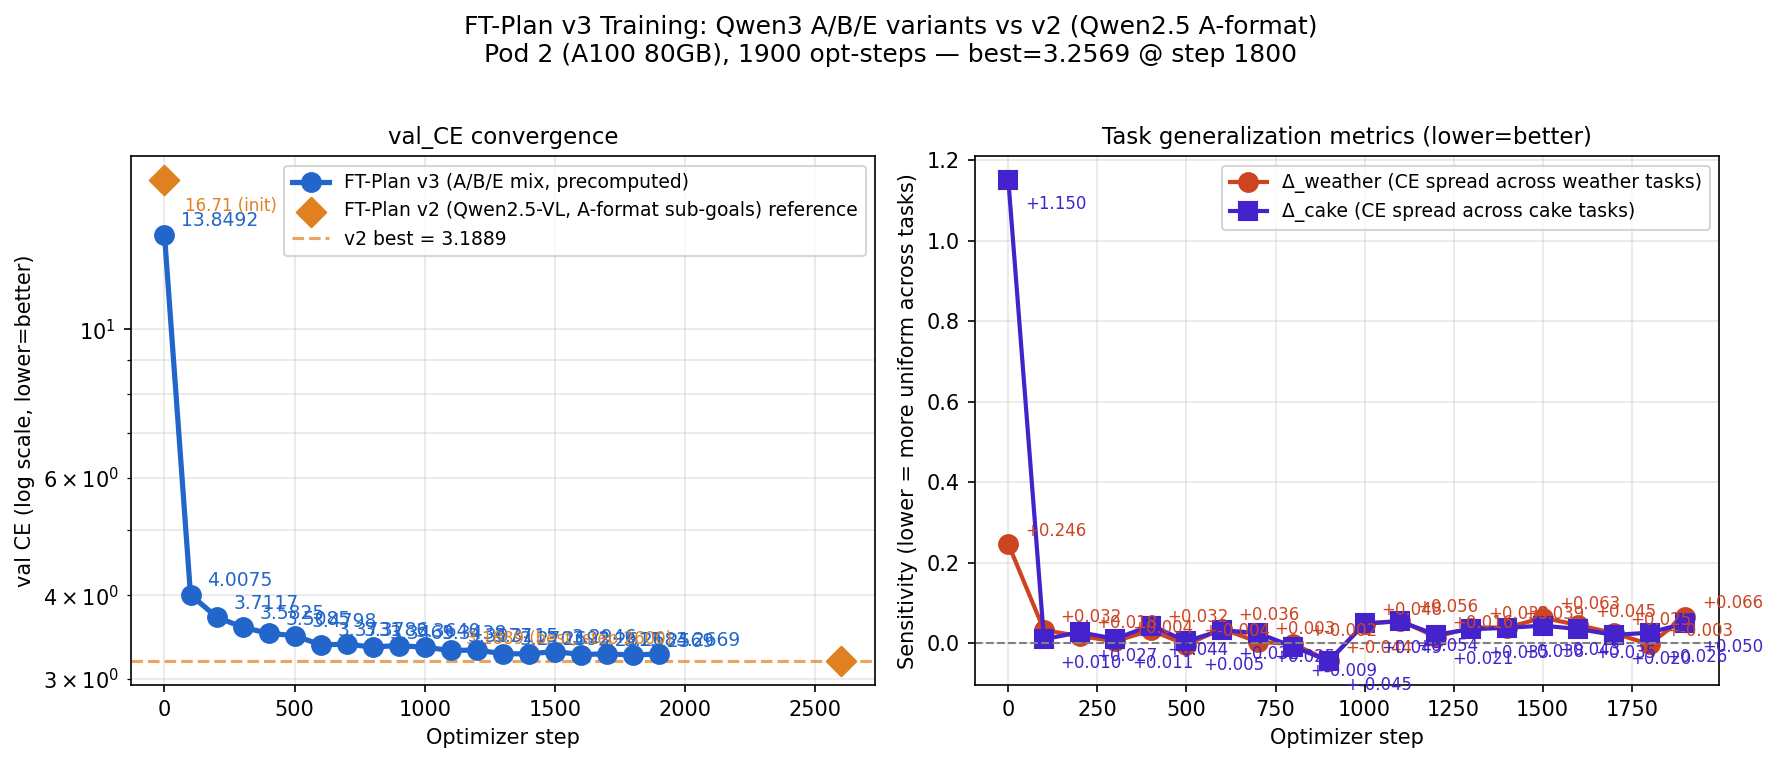
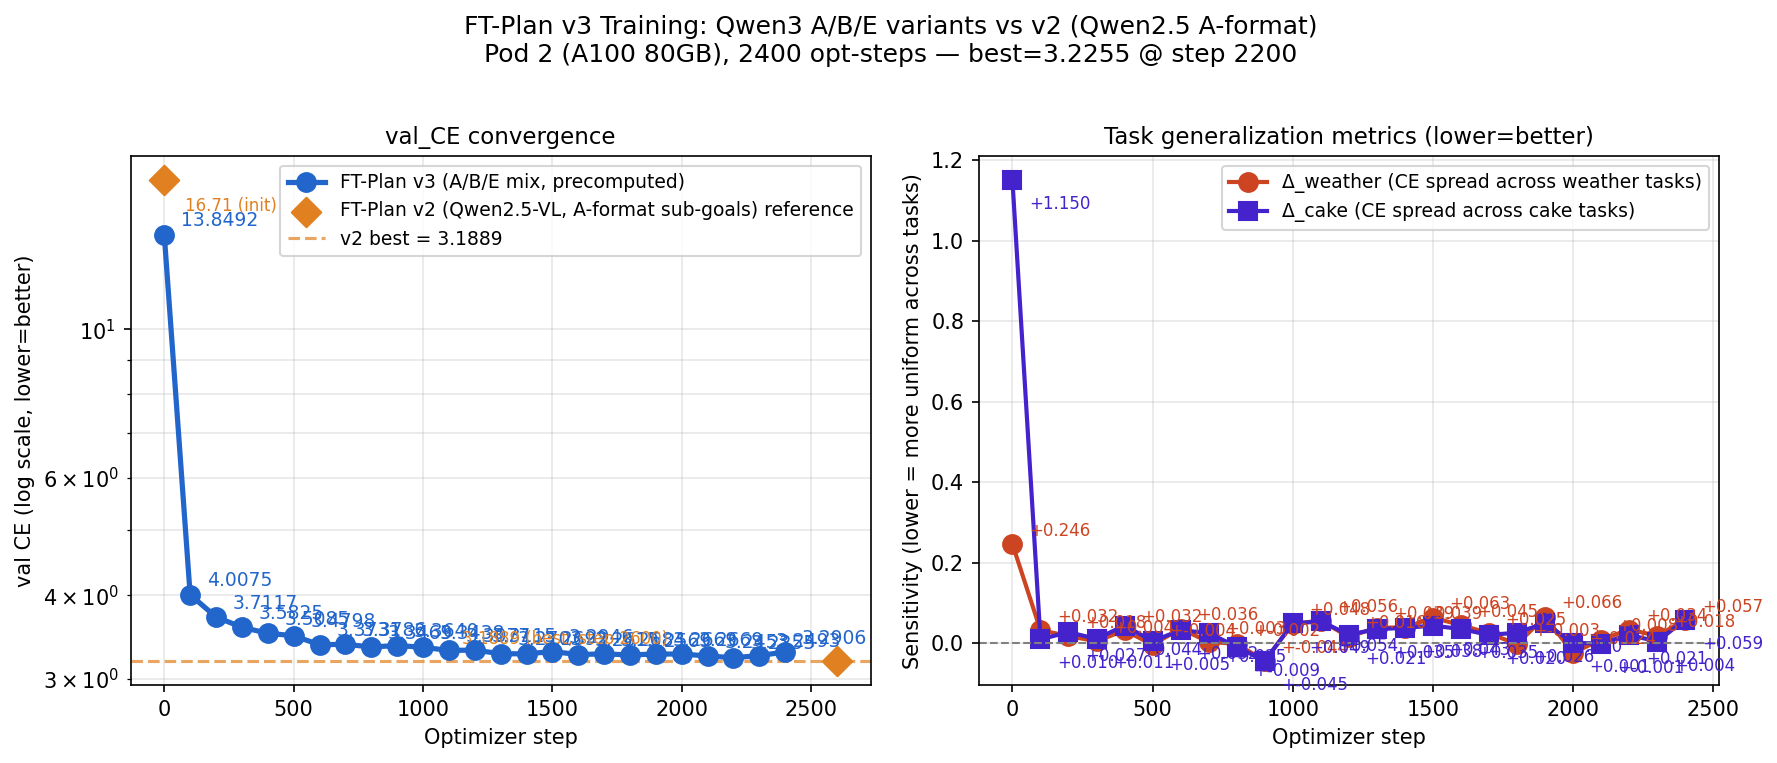
FT-Plan v3 step 2200-2400, fix eval Qwen3 thinking mode, simplify dataset loader
- Update cache/ftplan_v3_log.json and chart inline data through step 2400
  (best: 3.2255 @ step 2200, still training, patience 2/5)
- eval_per_variant.py: add enable_thinking=False + text=[text] list form to fix
  Qwen3 thinking-mode garbage output ("Assistant Assistant..."); increase
  max_new_tokens 80→120
- libero_loader.py: simplify _load_dataset_smart() to always use standard
  load_dataset(DATASET_ID, streaming=True) — raw parquet data_files approach
  broke PIL image decoding due to missing feature schema

diff --git a/chart_ftplan_v3_progress.py b/chart_ftplan_v3_progress.py
@@ -24,26 +24,31 @@ FTPLAN_V2_BEST = 3.1889
 LOG_PATH = Path("cache/ftplan_v3_log.json")
 # Check if we have a local copy; if not load inline data
 v3_data = [
-    {"opt_step": 0,   "val_ce": 13.84917653483503,  "deltas": {"weather": 0.24607910156250057,  "cake": 1.150387077331544}},
-    {"opt_step": 100, "val_ce": 4.007508395349278,   "deltas": {"weather": 0.03218112945556628,  "cake": 0.009601802825927486}},
-    {"opt_step": 200, "val_ce": 3.7116723674185135,  "deltas": {"weather": 0.017545614242553853, "cake": 0.026975650787353533}},
-    {"opt_step": 300, "val_ce": 3.582540317055057,   "deltas": {"weather": 0.004390130043030016, "cake": 0.01068383693695063}},
-    {"opt_step": 400, "val_ce": 3.508535266360816,   "deltas": {"weather": 0.03184607028961173,  "cake": 0.04357860565185545}},
-    {"opt_step": 500, "val_ce": 3.479826079133679,   "deltas": {"weather": -0.004111042022704847, "cake": 0.004956574440002637}},
-    {"opt_step": 600, "val_ce": 3.373129766653566,   "deltas": {"weather": 0.03586063861846922,  "cake": 0.03202191352844208}},
-    {"opt_step": 700, "val_ce": 3.378574650953798,   "deltas": {"weather":  0.002912940979003853,  "cake":  0.02502442836761487}},
-    {"opt_step": 800, "val_ce": 3.3469306927393463,  "deltas": {"weather": -0.0018874692916868163, "cake": -0.008929896354675115}},
-    {"opt_step": 900, "val_ce": 3.3640293439521507,  "deltas": {"weather": -0.04412234783172586,  "cake": -0.044603810310363645}},
-    {"opt_step": 1000, "val_ce": 3.343798521248733,  "deltas": {"weather":  0.04826022148132347,  "cake":  0.04870706081390397}},
-    {"opt_step": 1100, "val_ce": 3.3076820855631546, "deltas": {"weather":  0.055657949447631694, "cake":  0.05404345035552982}},
-    {"opt_step": 1200, "val_ce": 3.3115215393550255, "deltas": {"weather":  0.015577449798584109, "cake":  0.02105723381042468}},
-    {"opt_step": 1300, "val_ce": 3.270315069924383,  "deltas": {"weather":  0.038600115776061816, "cake":  0.03458781242370579}},
-    {"opt_step": 1400, "val_ce": 3.2691742961897567, "deltas": {"weather":  0.038570203781127965, "cake":  0.03787199497222904}},
-    {"opt_step": 1500, "val_ce": 3.294606110190644,  "deltas": {"weather":  0.06287834644317636,  "cake":  0.04338649749755863}},
-    {"opt_step": 1600, "val_ce": 3.261502768625231,  "deltas": {"weather":  0.044999313354492365, "cake":  0.03503021717071553}},
-    {"opt_step": 1700, "val_ce": 3.2684379285749268, "deltas": {"weather":  0.02451191902160632,  "cake":  0.02031200885772666}},
-    {"opt_step": 1800, "val_ce": 3.256883341599913,  "deltas": {"weather": -0.002766685485839915, "cake":  0.025816044807434047}},
-    {"opt_step": 1900, "val_ce": 3.266900730045403,  "deltas": {"weather":  0.065611414909362950, "cake":  0.049582872390747210}},
+    {"opt_step": 0,    "val_ce": 13.84917653483503,  "deltas": {"weather":  0.24607910156250057,  "cake":  1.150387077331544}},
+    {"opt_step": 100,  "val_ce": 4.007508395349278,   "deltas": {"weather":  0.03218112945556628,  "cake":  0.009601802825927486}},
+    {"opt_step": 200,  "val_ce": 3.7116723674185135,  "deltas": {"weather":  0.017545614242553853, "cake":  0.026975650787353533}},
+    {"opt_step": 300,  "val_ce": 3.582540317055057,   "deltas": {"weather":  0.004390130043030016, "cake":  0.01068383693695063}},
+    {"opt_step": 400,  "val_ce": 3.508535266360816,   "deltas": {"weather":  0.03184607028961173,  "cake":  0.04357860565185545}},
+    {"opt_step": 500,  "val_ce": 3.479826079133679,   "deltas": {"weather": -0.004111042022704847, "cake":  0.004956574440002637}},
+    {"opt_step": 600,  "val_ce": 3.373129766653566,   "deltas": {"weather":  0.03586063861846922,  "cake":  0.03202191352844208}},
+    {"opt_step": 700,  "val_ce": 3.378574650953798,   "deltas": {"weather":  0.002912940979003853, "cake":  0.02502442836761487}},
+    {"opt_step": 800,  "val_ce": 3.3469306927393463,  "deltas": {"weather": -0.0018874692916868163,"cake": -0.008929896354675115}},
+    {"opt_step": 900,  "val_ce": 3.3640293439521507,  "deltas": {"weather": -0.04412234783172586,  "cake": -0.044603810310363645}},
+    {"opt_step": 1000, "val_ce": 3.343798521248733,   "deltas": {"weather":  0.04826022148132347,  "cake":  0.04870706081390397}},
+    {"opt_step": 1100, "val_ce": 3.3076820855631546,  "deltas": {"weather":  0.055657949447631694, "cake":  0.05404345035552982}},
+    {"opt_step": 1200, "val_ce": 3.3115215393550255,  "deltas": {"weather":  0.015577449798584109, "cake":  0.02105723381042468}},
+    {"opt_step": 1300, "val_ce": 3.270315069924383,   "deltas": {"weather":  0.038600115776061816, "cake":  0.03458781242370579}},
+    {"opt_step": 1400, "val_ce": 3.2691742961897567,  "deltas": {"weather":  0.038570203781127965, "cake":  0.03787199497222904}},
+    {"opt_step": 1500, "val_ce": 3.294606110190644,   "deltas": {"weather":  0.06287834644317636,  "cake":  0.04338649749755863}},
+    {"opt_step": 1600, "val_ce": 3.261502768625231,   "deltas": {"weather":  0.044999313354492365, "cake":  0.03503021717071553}},
+    {"opt_step": 1700, "val_ce": 3.2684379285749268,  "deltas": {"weather":  0.02451191902160632,  "cake":  0.02031200885772666}},
+    {"opt_step": 1800, "val_ce": 3.256883341599913,   "deltas": {"weather": -0.002766685485839915, "cake":  0.025816044807434047}},
+    {"opt_step": 1900, "val_ce": 3.266900730045403,   "deltas": {"weather":  0.06561141490936295,  "cake":  0.04958287239074721}},
+    {"opt_step": 2000, "val_ce": 3.266929965247126,   "deltas": {"weather": -0.024188637733459473, "cake":  0.0005005025863651369}},
+    {"opt_step": 2100, "val_ce": 3.245336935362395,   "deltas": {"weather":  0.008342628479004244, "cake": -0.0010277032852172852}},
+    {"opt_step": 2200, "val_ce": 3.22554145490422,    "deltas": {"weather":  0.03375617980957024,  "cake":  0.020802521705627353}},
+    {"opt_step": 2300, "val_ce": 3.249347414163982,   "deltas": {"weather":  0.018144617080688263, "cake":  0.003658990859985334}},
+    {"opt_step": 2400, "val_ce": 3.29060991130331,    "deltas": {"weather":  0.05738737583160436,  "cake":  0.058591380119323855}},
 ]
 # Try loading real log
 try:

diff --git a/libero_loader.py b/libero_loader.py
@@ -48,23 +48,15 @@ def _task_map() -> dict[int, str]:
 
 
 def _load_dataset_smart():
-    """Load from local blob cache (streaming=True over disk) if available, else HF network stream.
+    """Load dataset with streaming=True (no Arrow cache).
 
-    streaming=False builds an Arrow cache which needs ~2x the dataset disk space.
-    Using streaming=True with local data_files reads parquet blobs directly — no extra space needed.
+    Uses HF's standard loader which handles image decoding correctly via the
+    dataset's feature schema. If the dataset is in local HF cache, reads from
+    disk; otherwise streams from HF. Raw parquet loading bypasses feature schema
+    and breaks PIL image decoding, so we always use the standard path.
     """
     import os
-    from pathlib import Path
     from datasets import load_dataset
-
-    hf_home = Path(os.environ.get("HF_HOME", "/workspace/hf_cache"))
-    snap_base = hf_home / "hub" / "datasets--lerobot--libero_10_image" / "snapshots"
-    if snap_base.exists():
-        snaps = [p for p in snap_base.iterdir() if p.is_dir()]
-        if snaps:
-            parquet_glob = str(snaps[0] / "data" / "**" / "*.parquet")
-            return load_dataset("parquet", data_files={"train": parquet_glob},
-                                split="train", streaming=True)
     return load_dataset(DATASET_ID, split="train", streaming=True)
 
 

diff --git a/eval_per_variant.py b/eval_per_variant.py
@@ -100,12 +100,14 @@ def sample_sub_goal(qwen_proc, qwen_model, goal, frames, variant):
                              f"Here are the last {len(imgs)} frames "
                              f"(oldest → newest).\n\n" + prompt_text)}])
     messages = [{"role": "user", "content": content}]
-    text = qwen_proc.apply_chat_template(messages, tokenize=False, add_generation_prompt=True)
-    inputs = qwen_proc(text=text, images=imgs, return_tensors="pt",
+    # enable_thinking=False: Qwen3 thinking mode burns max_new_tokens budget on <think> tokens
+    text = qwen_proc.apply_chat_template(
+        messages, tokenize=False, add_generation_prompt=True, enable_thinking=False)
+    inputs = qwen_proc(text=[text], images=imgs, return_tensors="pt",
                        padding=True).to(DEVICE)
     with torch.no_grad():
-        out = qwen_model.generate(**inputs, max_new_tokens=80,
-                                   do_sample=False, temperature=None, top_p=None)
+        out = qwen_model.generate(**inputs, max_new_tokens=120,
+                                   do_sample=False)
     new_ids = out[0][inputs["input_ids"].shape[1]:]
     return qwen_proc.decode(new_ids, skip_special_tokens=True).strip()
 
